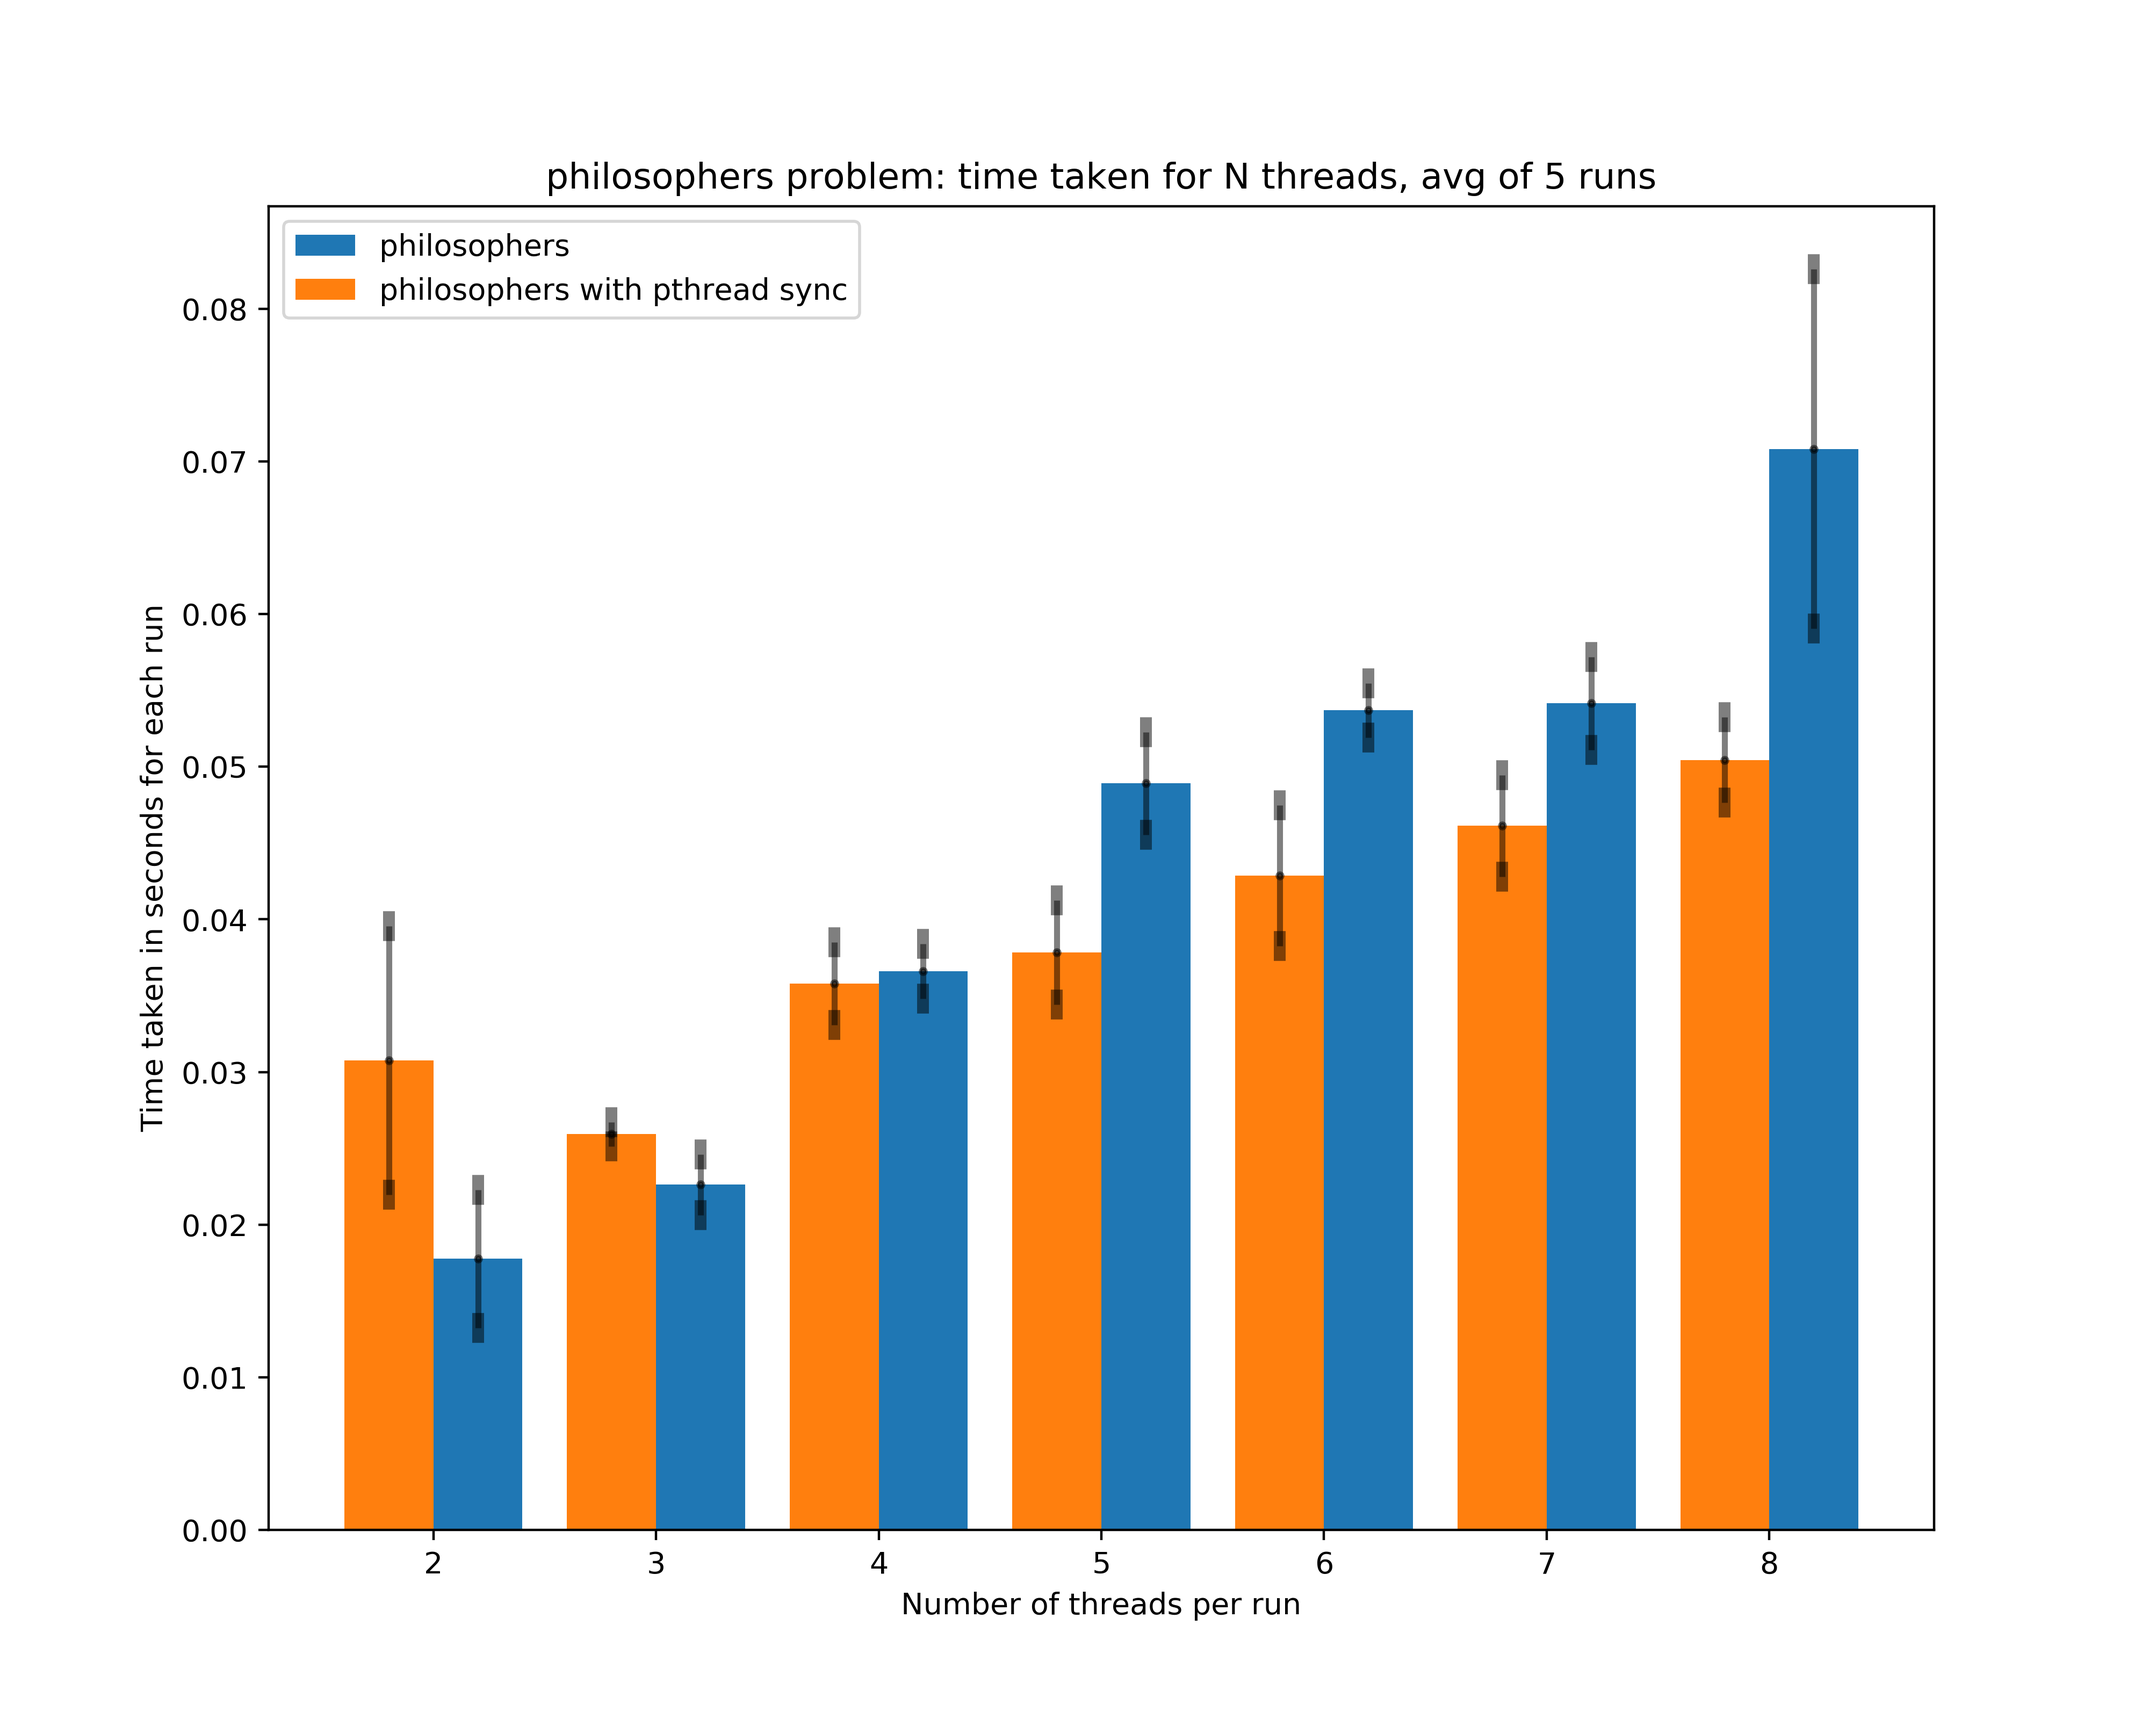
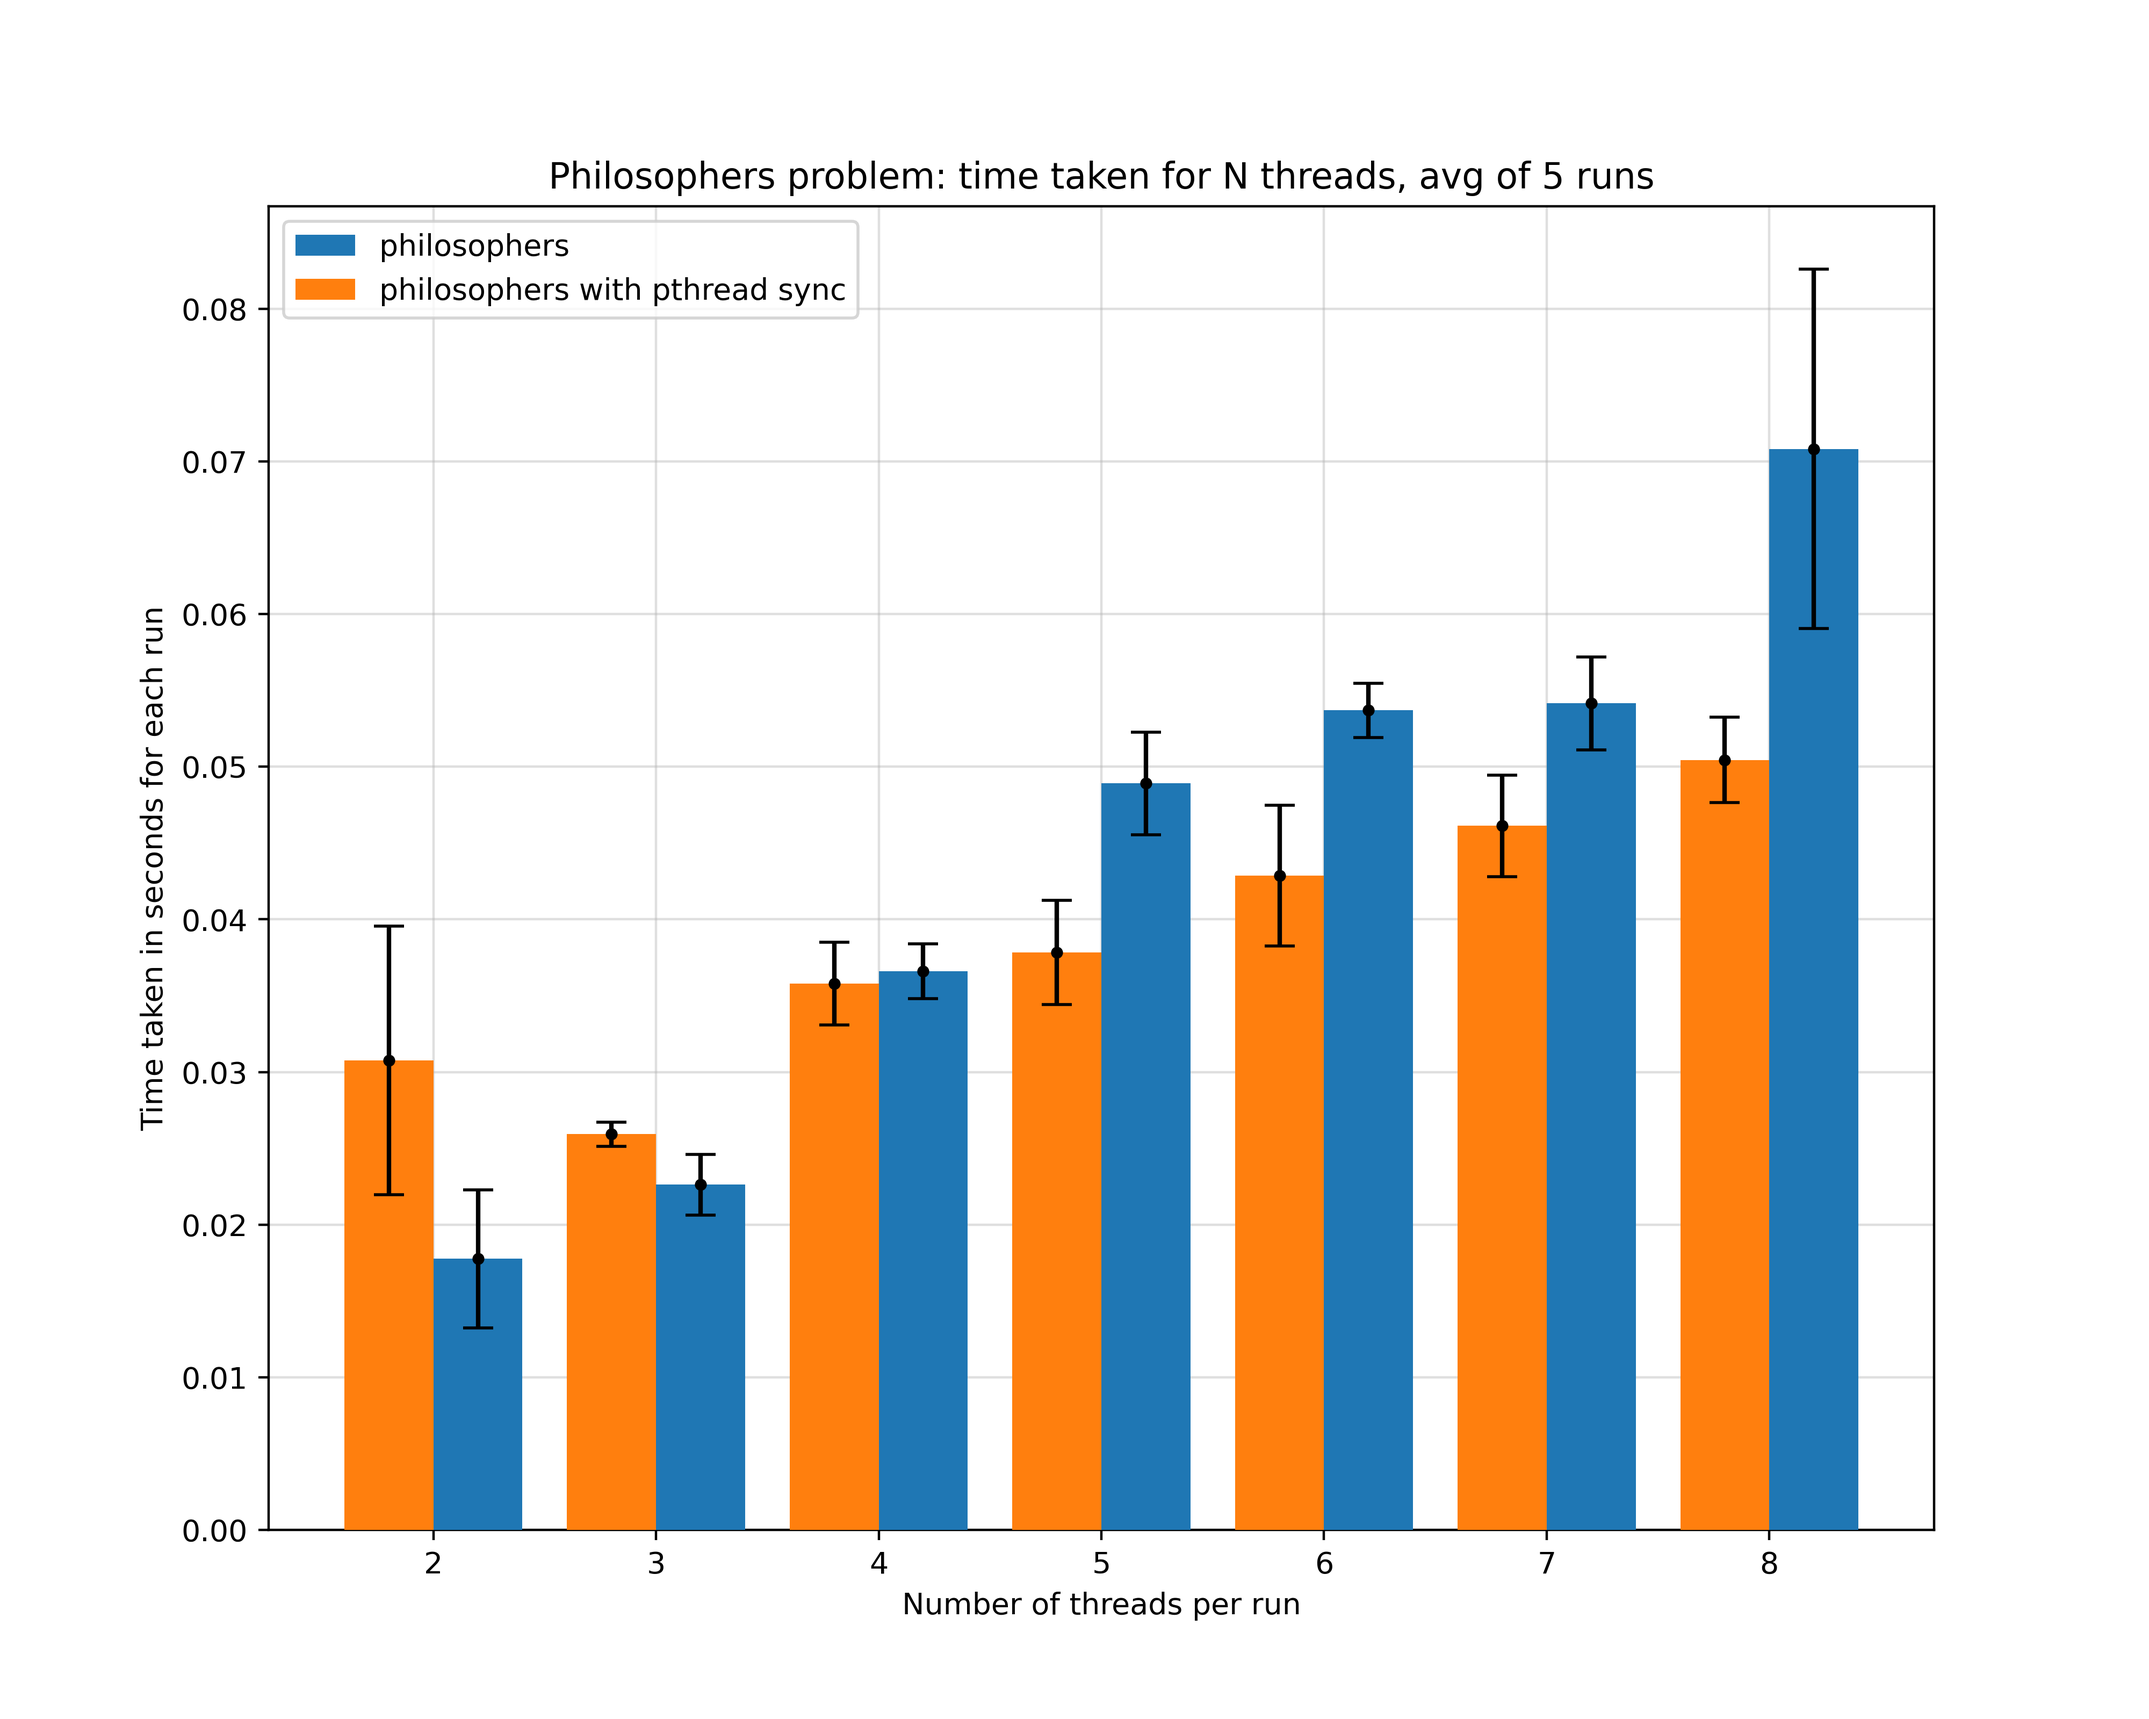
prettify graphs Le changement est intense

diff --git a/analysis.py b/analysis.py
@@ -58,26 +58,25 @@ def plot_file(file, current_problems: (str, str)):
 
     width = 10
     height = 8
+
     X_axis = np.arange(threads[0], threads[-1]+1, 1) + 0.2
     plt.figure(figsize=(width, height))
 
-    plt.bar(X_axis, y, 0.4, label=new_problem)
-    plt.errorbar(X_axis, y, y_err, fmt=".", color="Black", elinewidth=2, capthick=10, errorevery=1, alpha=0.5, ms=4,
-                 capsize=2)
+    plt.bar(X_axis, y, 0.4, zorder=3, label=new_problem)
+    plt.errorbar(X_axis, y, y_err, zorder=4, fmt=".", color="k", errorevery=1, capsize=5)
 
-    plt.bar(X_axis - 0.4, old_problem_y, 0.4, label=old_problem.replace("old_", "") + " with pthread sync" if new_problem != CurrentProblem.TEST_AND_SET_LOCK.value else old_problem.replace("old_", ""))
-    plt.errorbar(X_axis - 0.4, old_problem_y, old_problem_y_err, fmt=".", color="Black", elinewidth=2, capthick=10, errorevery=1,
-                 alpha=0.5, ms=4,
-                 capsize=2)
+    plt.bar(X_axis - 0.4, old_problem_y, 0.4, zorder=3, label=old_problem.replace("old_", "") + " with pthread sync" if new_problem != CurrentProblem.TEST_AND_SET_LOCK.value else old_problem.replace("old_", ""))
+    plt.errorbar(X_axis - 0.4, old_problem_y, old_problem_y_err, zorder=4, fmt=".", color="k", errorevery=1, capsize=5)
 
     name = new_problem.replace("_", " ")
     if new_problem == CurrentProblem.TEST_AND_SET_LOCK.value:
         name = new_problem.replace("_", " ") + " & test and test and and set"
 
-    plt.title(f"{name} problem: time taken for N threads, avg of 5 runs")
+    plt.title(f"{name.capitalize()} problem: time taken for N threads, avg of 5 runs")
 
     plt.xlabel("Number of threads per run")
     plt.ylabel("Time taken in seconds for each run")
+    plt.grid(alpha=0.4, zorder=0)
     plt.legend()
     plt.savefig(f'./data/figure_{new_problem}.png', dpi=400, transparent=False)
     # plt.show()
